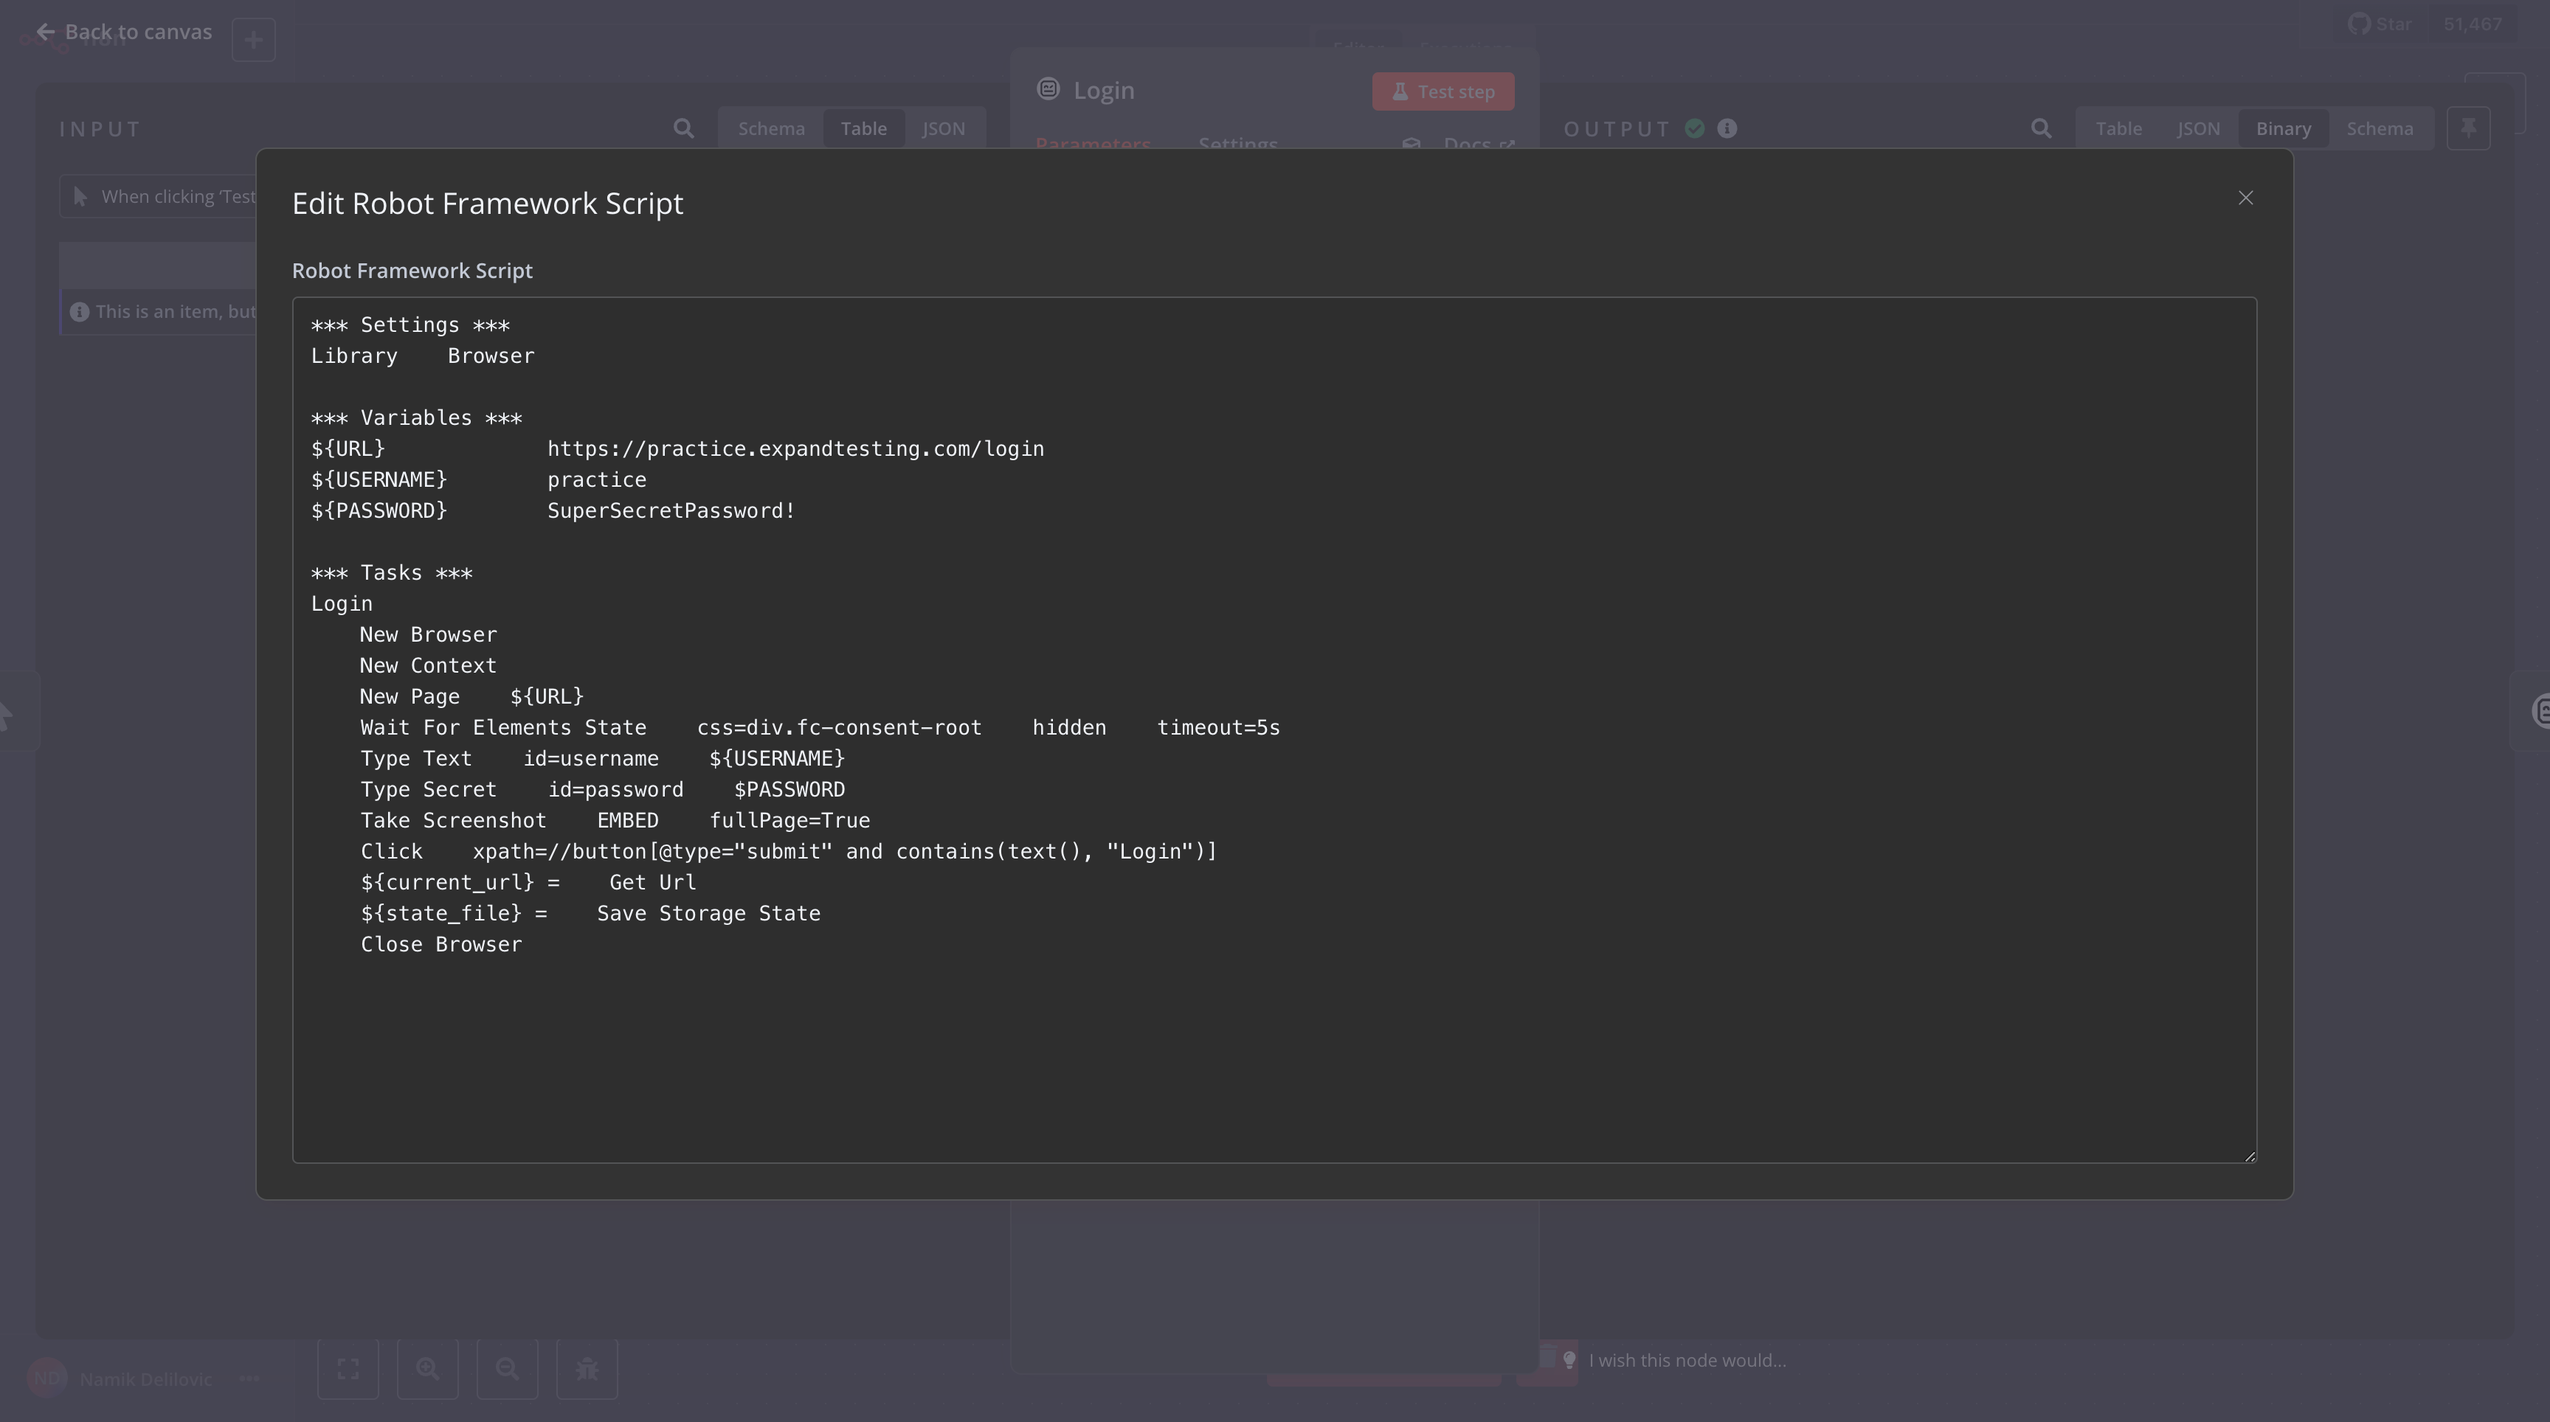
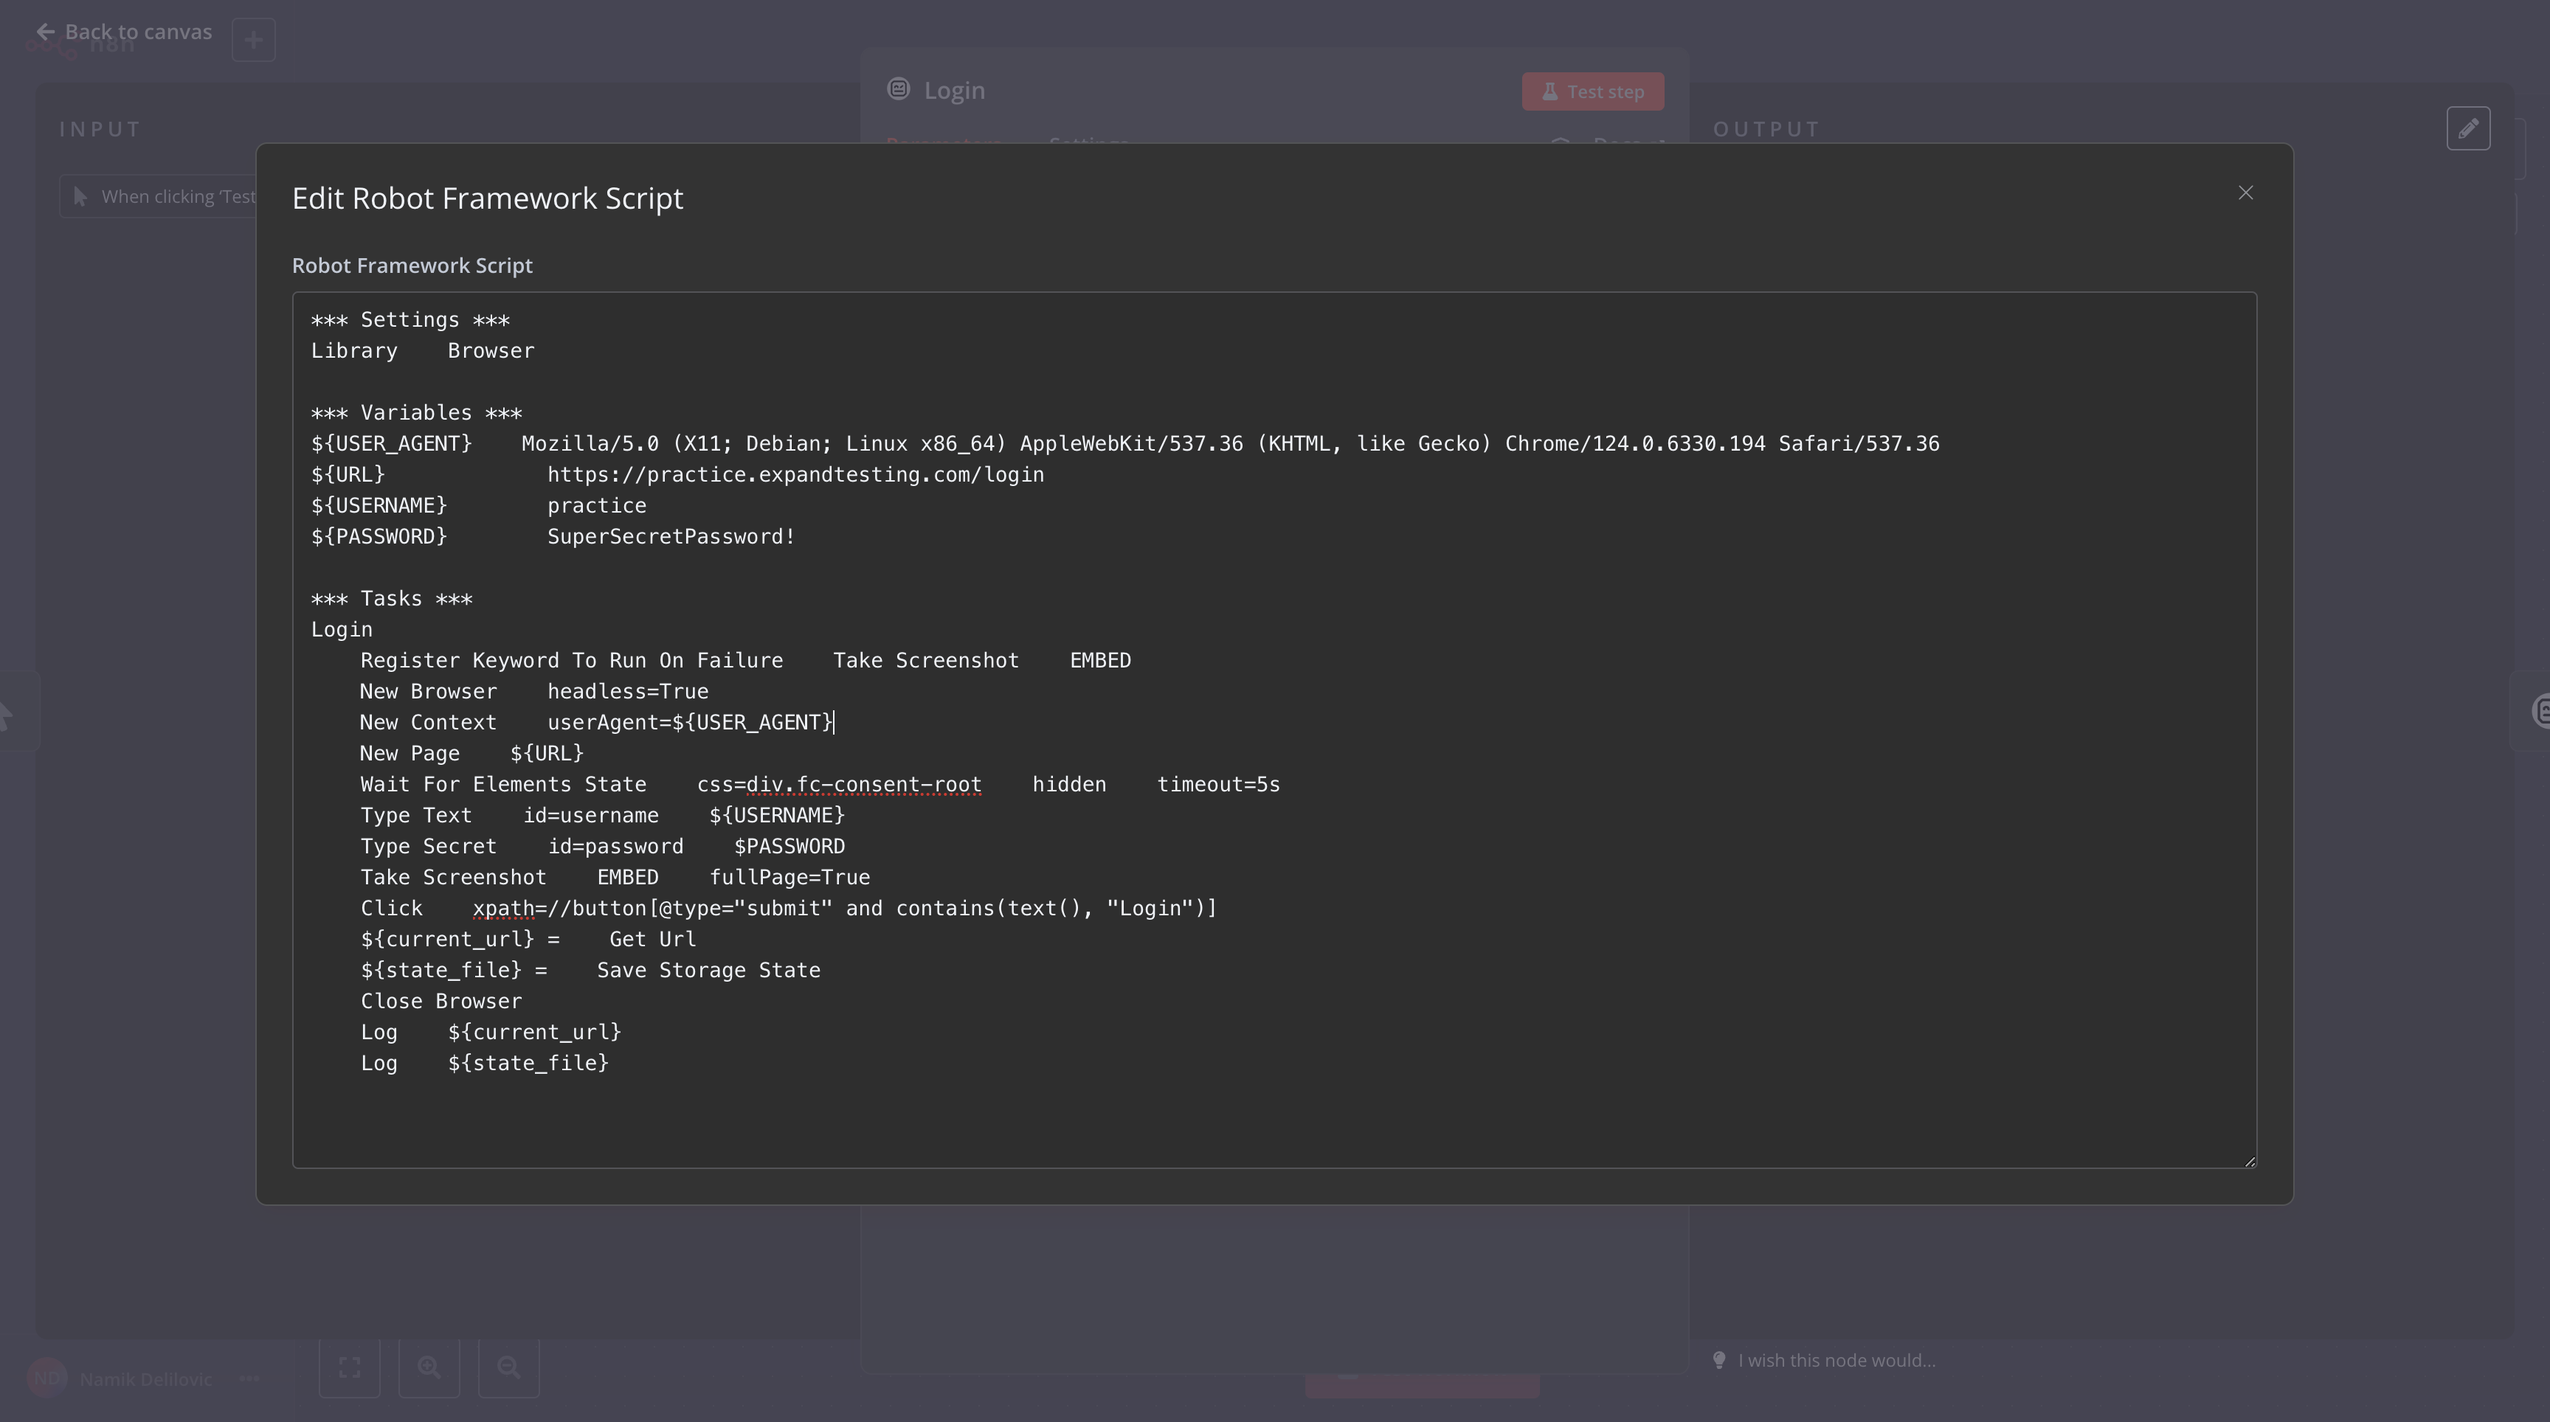
Added the Log feature to pass variables to the next node, and removed the automatic passing of variables to align with a more explicit workflow design. The example in this readme file has been adapted to reflect this change.

diff --git a/nodes/RobotFramework/RobotFramework.node.ts b/nodes/RobotFramework/RobotFramework.node.ts
@@ -220,7 +220,6 @@ export class RobotFramework implements INodeType {
 
 			results.push(outputItem);
 		}
-
 		return [results];
 	}
 }

diff --git a/README.md b/README.md
@@ -125,7 +125,7 @@ Additionally, we will showcase how to export the Robot Framework's report files 
 ### Overview
 ![1_overview.png](screenshots/1_overview.png)
 
-The workflow shown in the image consists of four nodes: a trigger node, two Robot Framework nodes, and a Telegram node. The trigger node starts the workflow when the **Test workflow** button is clicked. The first Robot Framework node handles the login process, while the second validates that the login was successful. Finally, the Telegram node sends a notification confirming the successful login and provides the URL of the website.
+The workflow shown in the image consists of five nodes: a trigger node, two Robot Framework nodes, a file reader node, and a Telegram node. The trigger node starts the workflow when the **Test workflow** button is clicked. The first Robot Framework node handles the login process, while the second validates that the login was successful and captures a screenshot. The file reader node then reads the screenshot from the disk and passes it as a binary file to the Telegram node. Finally, the Telegram node sends the screenshot with the caption "Login was successful."
 
 ### Login Node Details
 ![2_login_node.png](screenshots/2_login_node.png)
@@ -139,16 +139,25 @@ There is also an option to toggle **Include Other Input Fields**, which would pa
 ![3_login_node_code.png](screenshots/3_login_node_code.png)
 
 The Login Node contains classic Robot Framework code with its standard structure, which includes Settings, Variables, and Tasks (with support for Keywords and Tests as well). In this example, the Browser Library is used to perform the following actions:
-* Open a new browser instance and context.
-* Navigate to the login page using the URL defined in the variables section.
-* Enter the username and password into the respective fields.
-* Click the login button to authenticate.
+* **Failure Handling:** The task begins by registering `Take Screenshot` (with the `EMBED` argument) as the failure handler using `Register Keyword To Run On Failure`. This ensures that a screenshot is automatically captured and embedded into the log in case any step during the execution fails. This is particularly useful for debugging issues in automated workflows.
+* Open a new browser instance in headless mode with a registered `userAgent`.
+* Navigate to the login page using the `${URL}` defined in the variables section.
+* Wait for the cookie consent modal (`div.fc-consent-root`) to be hidden before proceeding.
+* Enter the username (`${USERNAME}`) and password (`${PASSWORD}`) into their respective input fields.
+* Capture a full-page screenshot during the login process, embedded directly into the log for easier debugging or verification.
+* Click on the login button to authenticate.
+* Save the current URL (`${current_url}`) and browser state (`${state_file}`) to maintain session continuity across nodes.
+* Close the browser instance once the actions are complete.
+* Log both the current URL and the saved browser state for reuse in subsequent nodes.
 
-Additionally, we save the current URL `${current_url}` and browser state `${state_file}` to maintain session continuity. This allows the **Validate Login** node to pick up exactly where the **Login** Node left off without requiring reauthentication.
+### Key Notes:
+- **Failure Handling**: The `Register Keyword To Run On Failure` ensures screenshots (`Take Screenshot`) are automatically captured and embedded into the logs if any failure occurs during execution. This is done by passing the `EMBED` argument, making the logs more informative and accessible directly from the report.
+- **Session Continuity:** The use of `${state_file}` ensures session continuity. This allows the **Validate Login** node to resume exactly where the **Login** node left off, avoiding the need for reauthentication.
+- **User-Agent Configuration:** A custom `userAgent` is passed via `New Context`, simulating a specific browser environment (`Mozilla/5.0...Chrome/124.0...Safari/537.36`), which is helpful for compatibility testing.
 
-A screenshot is also captured during the login process, which will be included in the log.html report file for easier debugging or verification.
+Variables in the Robot Framework node are no longer automatically forwarded between nodes. Instead, variables must explicitly be passed to subsequent nodes using the `Log` keyword (e.g., `Log ${foo}`). This approach ensures that only the intended variables are available to downstream nodes, improving efficiency and clarity within workflows.
 
-All variables defined in the Variables section and initialized in the Tasks section are automatically forwarded to the next node. Along with the Robot Framework’s standard test result output, this allows flexibility to reuse values, such as the session state and current URL, in subsequent nodes.
+Additionally, the Robot Framework's standard output is automatically included, providing the framework's typical execution status and result details.
 
 ![4_login_node_report.png](screenshots/4_login_node_report.png)
 
@@ -160,23 +169,27 @@ Additionally, as defined in the code, the report includes the screenshot taken j
 
 ![5_validate_node.png](screenshots/5_validate_node.png)
 
-In the **Validate Login** node, the input panel on the left shows the variables and values passed from the previous **Login** node, including the browser context `state_file` and the URL `current_url`. These are essential for this step as they allow the node to continue the session established during the login process without requiring reauthentication.
+In the **Validate Login** node, the input panel on the left displays the variables and values passed from the preceding **Login** node, which uses the `Log` keyword to pass the browser context `state_file` and the URL `current_url` to the **Validate Login** node. These variables are essential for this step as they enable the node to continue the session established during the login process without requiring reauthentication.
 
-The Robot Framework script for validation is defined in the edit field, where it utilizes the passed browser context and URL to verify that the login was successful. We have enabled **Log HTML** generation to include a detailed execution report.
+The Robot Framework script for validation is defined in the edit field, utilizing the passed browser context and URL to verify the success of the login operation. We have enabled **Log HTML** generation to provide a comprehensive execution report for this step.
 
-For demonstration purposes, the **Include Other Input Fields** option is enabled to show how this toggle can be used to forward all variables and values to the next node. This ensures that the Telegram node can access the `current_url` and include it in the notification message sent after the validation step.
+For demonstration purposes, the **Include Other Input Fields** toggle is enabled to pass all output variables from the **Validate Login** node to the next **Read Screenshot from Disk** node. In cases where duplicate variables with the same name exist, such as `terminal_output`, the variable generated in the **current Validate Login** node takes precedence over the one received from the **Login** node. However, these additional variables will not be used in the subsequent **Read Screenshot from Disk** node.
 
 ![6_validate_node_code.png](screenshots/6_validate_node_code.png)
 
-In the **Validate Login** node, we use the Expression View, which allows us to dynamically reference JavaScript expressions and variables from the previous node. Instead of hardcoding values, we use variables like `{{ $json.current_url }}` and `{{ $json.state_file }}`. On the right, we can see how these expressions are evaluated since the node has already been executed and the variables and their values are now known to the editor.
+In the **Validate Login** node, we use the **Expression View**, which allows us to dynamically reference JavaScript expressions and variables from the previous node. Instead of hardcoding values, we utilize variables such as `{{ $json.current_url }}` and `{{ $json.state_file }}`. On the right side, we can see how these expressions are evaluated after the node is executed, as the variables and their values are now known to the editor.
 
-This code reuses the browser context `state_file` from the previous node, enabling the browser to continue exactly where it left off. The code navigates to the saved URL and checks for the presence of a specific label ("Secure Area page for Automation Testing Practice") that is only visible after a successful login. To ensure accuracy and provide visual confirmation, the workflow also captures a screenshot, which will appear in the log.html file.
+This implementation reuses the browser context `state_file` from the previous node, enabling the browser to resume exactly where it left off. The workflow navigates to the saved URL and verifies the presence of a specific label ("Secure Area page for Automation Testing Practice") that appears only after a successful login. Additionally, the workflow captures a screenshot, which is sent via Telegram. The screenshot's file path is passed to the next node using the `Log` keyword.
 
-By combining variables from the previous node and runtime evaluations, this approach makes the workflow more flexible and adaptable to different inputs and scenarios.
+By combining the use of variables from the previous node with runtime evaluations, this approach enhances the workflow's flexibility and adaptability to various inputs and scenarios.
 
 ![7_validate_node_report.png](screenshots/7_validate_node_report.png)
 
-The log.html report generated from the **Validate Login** node confirms the successful execution of the validation step. The captured screenshot is included, showing the Secure Area page for Automation Testing Practice, which verifies that the login was successful.
+The log.html report generated from the **Validate Login** node confirms the successful execution of the validation step. Instead of embedding the captured screenshot, its file path is provided, allowing us to use it for further processing.
+
+### Read Screenshot from Disk
+
+This node converts the screenshot stored on the disk to a n8n binary file, which can then be used in the Telegram node to send it as an image.
 
 ### Telegram Node Integration
 
@@ -184,9 +197,9 @@ The log.html report generated from the **Validate Login** node confirms the succ
 
 Finally, the **Telegram** node demonstrates how seamlessly Robot Framework can integrate with other n8n nodes, such as AWS, OpenAI, Airtable, and many more.
 
-In this example, the URL passed from the **Validate Login** node is dynamically inserted into the Telegram message using an expression `{{ $json.URL }}`. The message is then sent to a Telegram channel along with the text: “Login was successful!”.
+In this example, the screenshot binary, which was read from disk in the previous node, is dynamically used in the **Telegram** node. The binary data is sent as a photo attachment, along with a caption reading: “Login was successful!”.
 
-This setup highlights how easily you can combine Robot Framework automation with powerful integrations in n8n to create end-to-end workflows that involve notifications, external APIs, and more. The output panel confirms the successful delivery of the message to the Telegram channel, completing the workflow.
+This setup highlights how easily you can combine Robot Framework automation with powerful integrations in n8n to create end-to-end workflows. By leveraging the ability to process files, interact with external APIs, and send notifications, n8n provides a seamless way to share updates across channels. The output panel confirms the successful delivery of the photo and caption to the Telegram channel, completing the workflow.
 
 ### Importing This Example into Your n8n Instance  
 
@@ -230,3 +243,4 @@ Note: If you prefer not to create a Telegram API token or account, you can simpl
   - Improved variable extraction logic to align with the new JSON structure.
 - **0.0.15** - Fix JSON linting issues in RobotFramework node.
 - **0.0.16** - Add support for dynamic variable handling and improve error reporting for failed test cases.
+- **0.0.17** - Added the Log feature to pass variables to the next node, and removed the automatic passing of variables to align with a more explicit workflow design. The example in this readme file has been adapted to reflect this change.
